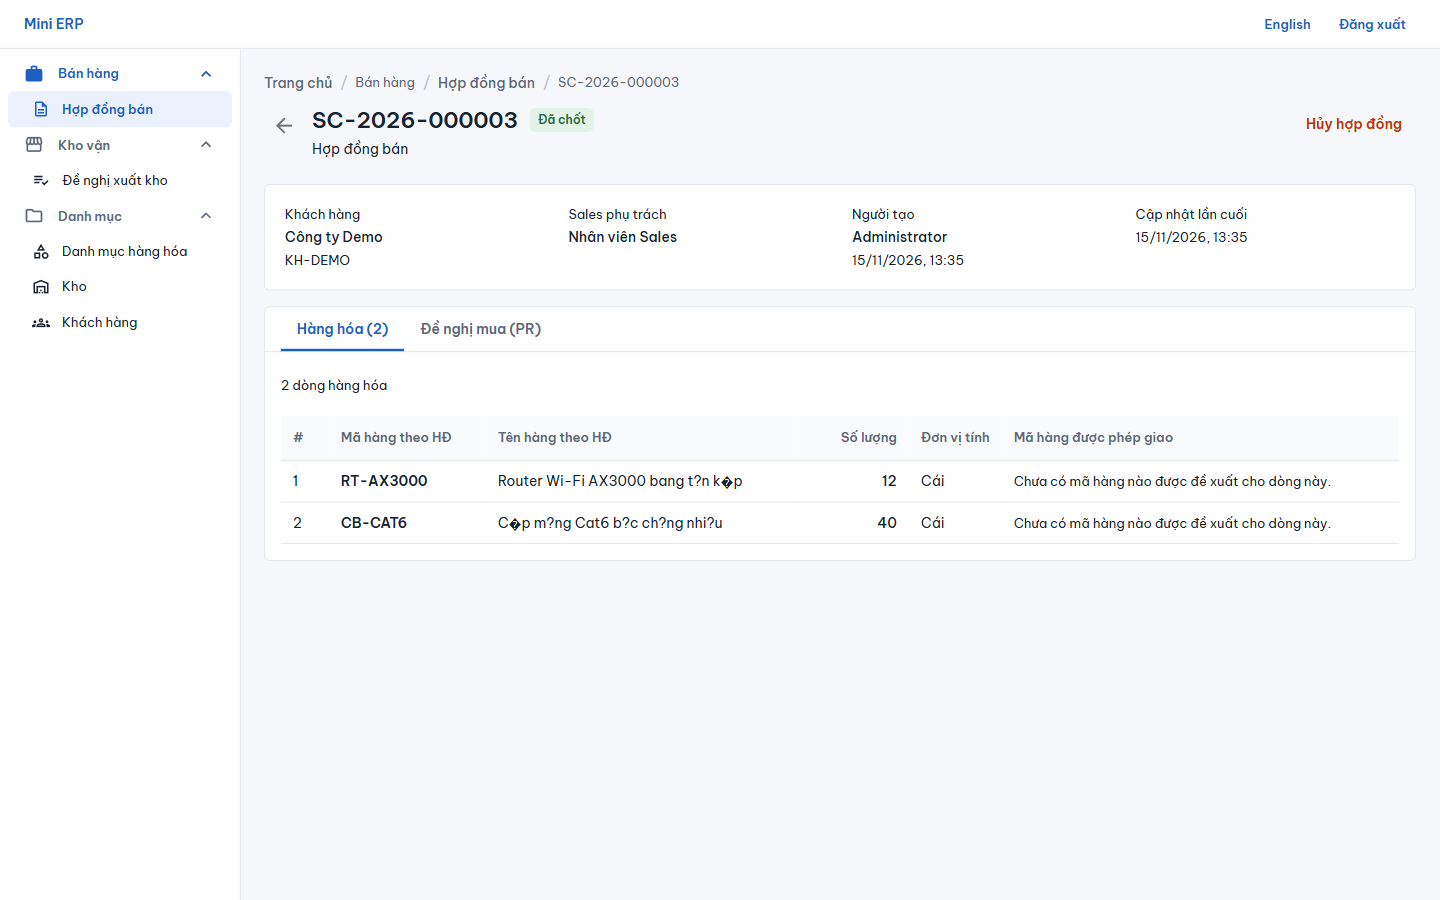
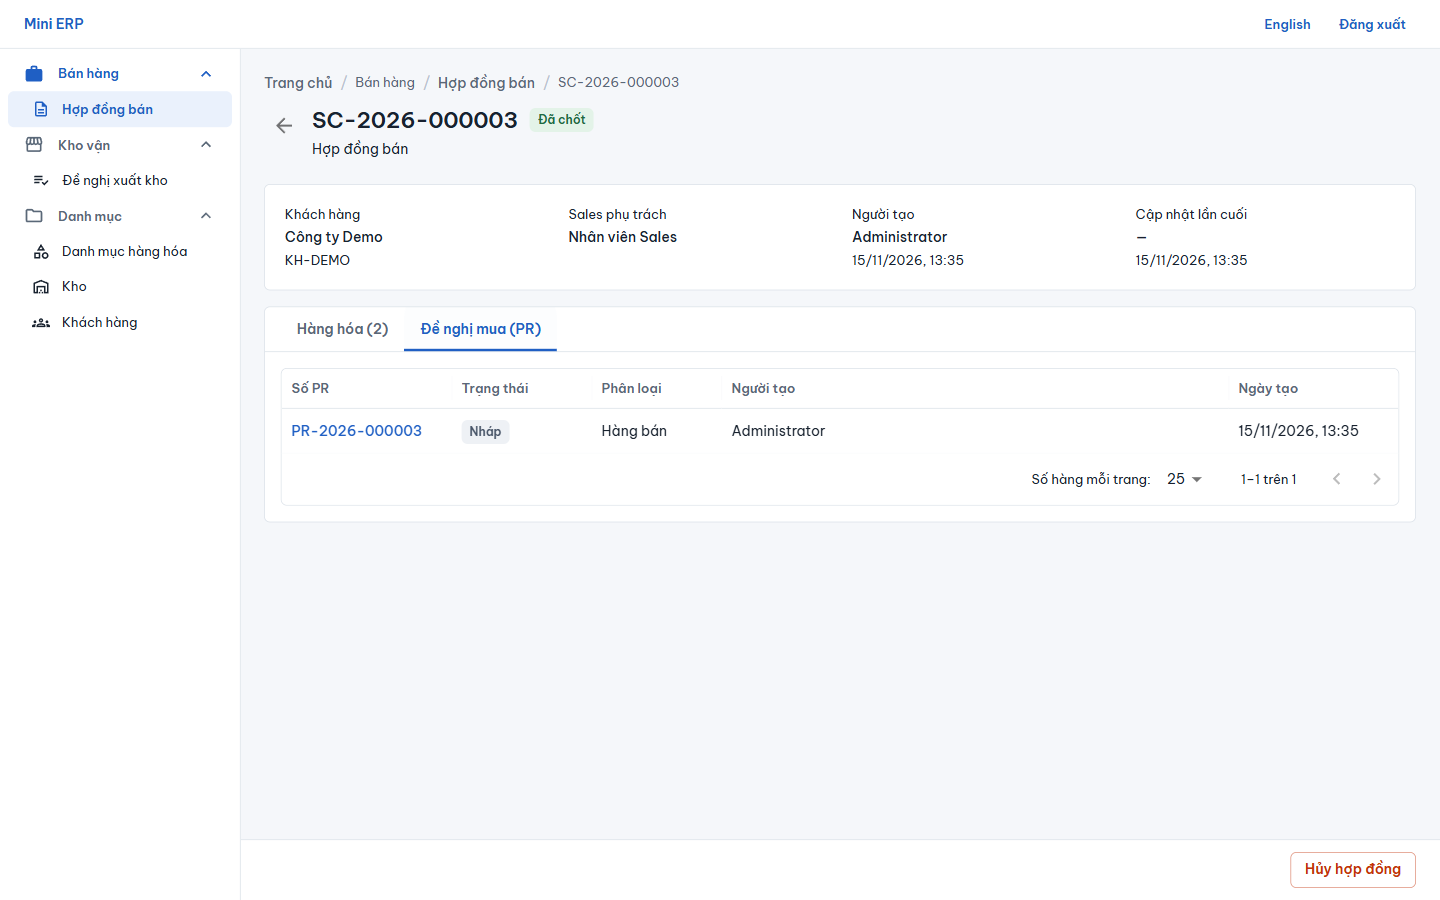
docs: layout, scroll and row menu rules; PR #17 round 2 screenshots

diff --git a/docs/architecture/FRONTEND.md b/docs/architecture/FRONTEND.md
@@ -124,6 +124,7 @@ Toàn bộ token và quy tắc component nằm trong `config/theme.ts` (MUI them
 | Nút | Contained: một nút chính mỗi vùng. Outlined: phụ. Text: hủy, điều hướng. Màu đỏ: thao tác phá hủy, luôn có xác nhận. Cao 36px (pointer thô: 44px), bo 6px. |
 | Form | Nhãn luôn nằm trên ô (không nổi trong viền), ô cao 40px, khoảng cách bội số 8. Thanh lọc không có nhãn trên: giá trị rỗng ghi "Tất cả …", tên trường là `aria-label`. |
 | Bảng | DataGrid dòng 44px, header 40px, chữ 14px; số căn phải; ngày trong danh sách `dd/MM/yyyy`, giờ đầy đủ ở tooltip; phân trang tiếng Việt ("1–3 trên 3"). |
-| Thao tác theo dòng | Ô cố định, căn phải. 0 thao tác: trống. 1 thao tác: hiện thẳng icon đó. Từ 2: icon chính + menu ⋮. |
-| Chi tiết chứng từ | Tiêu đề là mã chứng từ, chip trạng thái ngay cạnh, phụ đề là loại chứng từ. Header chỉ có thao tác phụ. Quyết định (vd. Chốt) nằm ở `DetailPageLayout.footer`: thanh dính đáy màn hình, nằm trong luồng trang nên không che nội dung cuối. |
+| Thao tác theo dòng | Mỗi dòng đúng một menu `⋯` (`MoreHoriz`) trong ô cố định, căn phải. Thao tác không có quyền: ẩn khỏi menu. Thao tác trạng thái không cho phép: disabled, lý do ghi dưới nhãn (cùng điều kiện server kiểm tra). DataGrid tắt menu cột (`disableColumnMenu`). |
+| Chi tiết chứng từ | Tiêu đề là mã chứng từ, chip trạng thái ngay cạnh, phụ đề là loại chứng từ. Header chỉ có thao tác sửa. Quyết định (Hủy: outlined đỏ, có xác nhận; Chốt: contained) cùng nằm ở `DetailPageLayout.footer`, căn phải. Không có thao tác nào thì không hiện footer. |
+| Layout và cuộn | `AppShell` cao đúng `100dvh` nên document không bao giờ cuộn. Topbar cố định; sidebar cuộn riêng; `[data-main-scroll]` là vùng cuộn dọc duy nhất của nội dung. `DetailPageLayout` lấp đầy vùng đó, footer `sticky` ở đáy (nằm trong luồng trang nên không che dòng cuối). Bảng rộng cuộn ngang trong khung bảng; bảng ít dòng không có vùng cuộn riêng (DataGrid `autoHeight`). Menu, select, dialog render qua portal nên không bị overflow cắt. |
 | Dialog | Tiêu đề + X, một dòng `description`, footer có đường kẻ, Hủy bỏ + nút chính căn phải. Trường văn bản chiếm cả hàng; cặp giá trị đọc cùng nhau (Số lượng + ĐVT) chung một hàng. |
